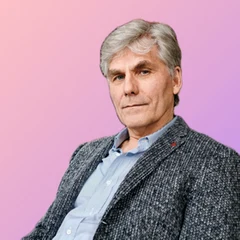
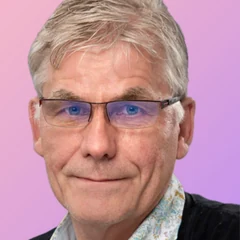
Update Passie lecture: new portrait, flyer wording, new Luma link
Neues Foto (Talk-Asset v2), zugeschnitten auf den Speaker: Das Original
zeigt ihn klein und aus der Mitte gerückt, im 105px-Rahmen der Karte wäre
gut die Hälfte leerer Hintergrund gewesen. 1,5 MB PNG -> 9 KB WebP.

Text an den finalen Flyer angeglichen. Titel, Leitfrage, Kurzbeschreibung
und Vita lagen bisher als ein Absatz im description-Feld; sie sind jetzt
getrennt, damit die Leitfrage nicht in der Beschreibung untergeht:

- subtitle: Leitfrage, direkt unter dem Titel
- description: Kurzbeschreibung, sagt jetzt "Wirksamkeit" statt
  "psychiatrischer Nutzen", damit sie sich nicht mit der Leitfrage doppelt
- speakerBio: Vita, getrennt von der inhaltlichen Beschreibung

Beide Felder sind optional, alle anderen Events bleiben unverändert.

Anmeldelink zeigt auf das neue Luma-Event (luma.com/jtglh7ct), und der
Wochentag steht wie auf dem Flyer in der Datumszeile.

diff --git a/src/data/events.ts b/src/data/events.ts
@@ -57,6 +57,8 @@ export interface EventAssets {
 export interface PsngEvent {
   id: string;
   title: string;
+  /** Leitfrage oder Untertitel, steht direkt unter dem Titel. */
+  subtitle?: string;
   category: EventCategory;
   column: EventColumn;
   date: string;
@@ -69,6 +71,8 @@ export interface PsngEvent {
   speakerType?: SpeakerType;
   /** verlinkt den Namen des Speakers in der Karte (z. B. persönliche Website) */
   speakerWebsiteUrl?: string;
+  /** Kurzvita des Speakers, getrennt von der inhaltlichen Beschreibung. */
+  speakerBio?: string;
   /** kurzes Label für besonders hervorgehobene Events (z. B. "Erstes eigenes In-Person-Event") */
   highlightBadge?: string;
   /** hebt das Event in den Aufnahmen hervor (z. B. der Kick-off) */
@@ -252,17 +256,22 @@ export const events: PsngEvent[] = [
   {
     id: "lecture-5",
     title: "Ein realitätsnaher Blick auf die aktuelle Therapieforschung mit Psychedelika",
+    subtitle:
+      "Wie steht es um den tatsächlichen Nutzen für Psychiatrie und Psychotherapie und die Implementierung in das Medizinsystem?",
     category: "lecture",
     column: "vortraege",
     date: "2026-08-11",
+    weekdayLabel: "Dienstag",
     time: "19:30 – 20:30",
     location: "Zoom",
     speaker: "Prof. Dr. Torsten Passie",
     speakerType: "gast",
     speakerWebsiteUrl: "http://psychedelic-science.org/",
     description:
-      "Ein kritischer, realitätsnaher Blick auf die aktuelle Therapieforschung mit Psychedelika: Neuroplastizität und ihre Grenzen, wie belastbar Therapieeffekte tatsächlich sind, der Wert für psychiatrische Indikationen sowie Methodikkritik und Übertragbarkeitsprobleme präklinischer Studien. Torsten Passie ist apl. Professor für Psychiatrie und Psychotherapie an der Medizinischen Hochschule Hannover und Visiting Scientist an der Goethe-Universität Frankfurt am Main. Er forscht seit mehr als 35 Jahren zu Psychedelika und gilt international als anerkannter Experte für die Pharmakologie und therapeutische Anwendung halluzinogener und entaktogener Substanzen.",
-    registrationUrl: "https://luma.com/event/evt-ebeCkgyBvDwslja",
+      "Ein nüchterner Blick auf Wirksamkeit, Methodikkritik und die Grenzen der aktuellen Psychedelika-Forschung.",
+    speakerBio:
+      "Torsten Passie ist apl. Professor für Psychiatrie und Psychotherapie an der Medizinischen Hochschule Hannover und Visiting Scientist an der Goethe-Universität Frankfurt am Main. Er forscht seit mehr als 35 Jahren zu Psychedelika und gilt international als anerkannter Experte für die Pharmakologie und therapeutische Anwendung halluzinogener und entaktogener Substanzen.",
+    registrationUrl: "https://luma.com/jtglh7ct",
     assets: {
       speakerPhoto: torstenPassiePhoto,
     },

diff --git a/src/components/EventsSection.tsx b/src/components/EventsSection.tsx
@@ -79,6 +79,11 @@ function EventCard({ event, i }: { event: PsngEvent; i: number }) {
         <h3 className="font-heading text-lg font-semibold text-foreground mb-2">
           {event.title}
         </h3>
+        {event.subtitle && (
+          <p className="text-sm text-foreground/80 font-medium mb-2 leading-relaxed">
+            {event.subtitle}
+          </p>
+        )}
         {event.speaker && (
           <p className="text-sm text-primary font-medium mb-2">
             {event.speakerWebsiteUrl ? (
@@ -98,6 +103,11 @@ function EventCard({ event, i }: { event: PsngEvent; i: number }) {
         <p className="text-sm text-muted-foreground mb-4 leading-relaxed">
           {event.description ?? "Weitere Details folgen bald."}
         </p>
+        {event.speakerBio && (
+          <p className="text-sm text-muted-foreground mb-4 leading-relaxed">
+            {event.speakerBio}
+          </p>
+        )}
         {event.audienceNote && (
           <p className="text-sm text-muted-foreground mb-4 leading-relaxed">
             {event.audienceNote}
